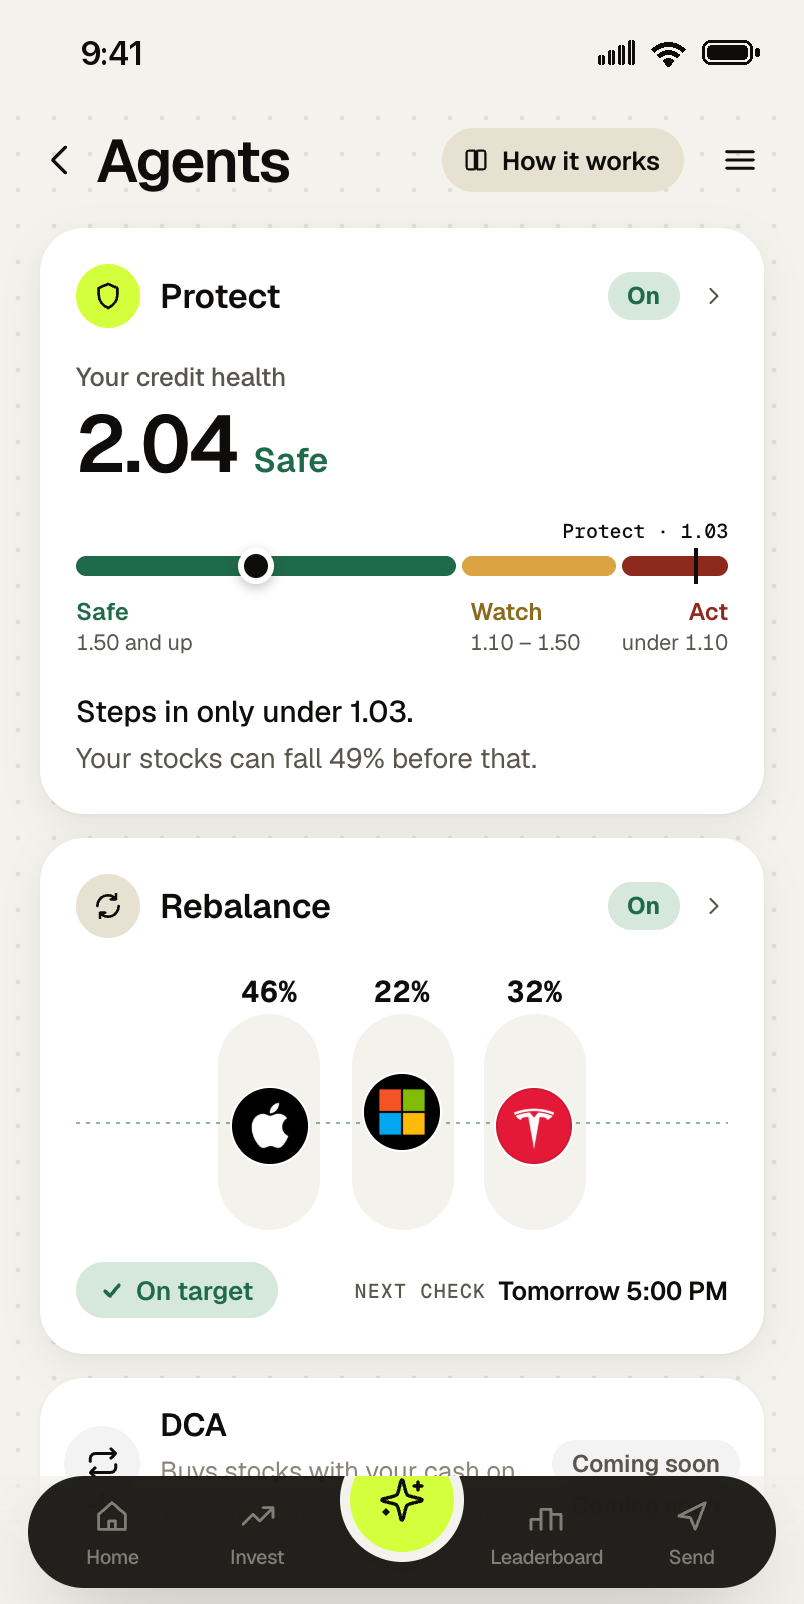
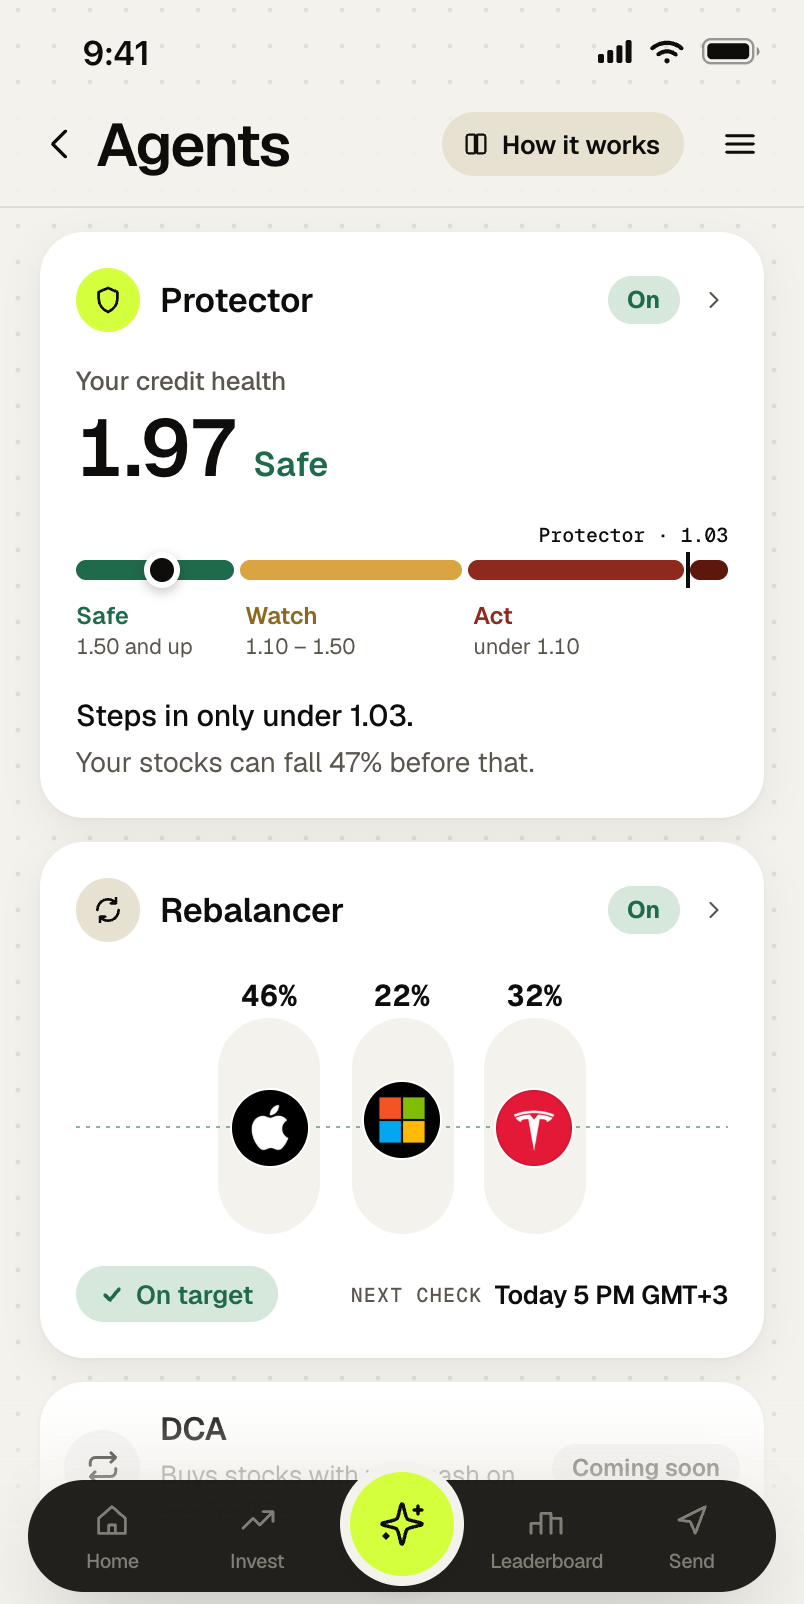
Hero demo: Light / Dark toggle for the demo screen
A small Light / Dark switch under the hero phone swaps the demo's 12 shots
for their dark twins in shots/dark/ (same file names); the page stays light.
Real buttons with aria-pressed, keyboard-operable, landing's mono pill style.

All 12 hero shots retaken from today's app (main 00fac66) on the rehearsal
fork, light and dark at the same moment so the numbers match. The light set
replaces the Oct 20 shots. Tap zones re-measured on the new Home; one set
fits both themes.

diff --git a/index.html b/index.html
@@ -622,26 +622,36 @@
   /* feature cards on phones and tablets: a compact phone frame (shorter than a real phone), sheets anchored to the bottom */
   @media (max-width:880px){
     .slide .frame{width:min(100%,256px);height:auto;aspect-ratio:804/1380;margin:0 auto 18px;border-radius:22px}
-    .tz-qa{top:33%!important;height:10%!important}
+    .tz-qa{top:33.6%!important;height:9.4%!important}
   }
   @media (min-width:600px) and (max-width:880px){
     .slide{flex-basis:46%}
     .slide .frame{width:min(100%,280px)}
   }
-  /* hero demo: more tap zones, positioned on the status-bar home shot at every width */
-  .tz-credit{left:53.5%;width:43%;top:12.5%;height:11.8%}
-  .tz-cash{left:5%;width:43.8%;top:44.9%;height:13.7%}
-  .tz-apple{left:5%;width:27.6%;top:64.8%;height:21.6%}
-  .tz-invest{left:24%;width:16%;top:92%;height:6.8%}
-  .tz-agents{left:42.5%;width:15%;top:90.6%;height:8.2%}
-  .tz-board{left:59.5%;width:17%;top:92%;height:6.8%}
-  .tz-send{left:78%;width:16%;top:92%;height:6.8%}
+  /* hero demo: more tap zones, positioned on the status-bar home shot at every width (light and dark shots alike) */
+  .tz-credit{left:53.5%;width:43%;top:13.5%;height:13.5%}
+  .tz-cash{left:5%;width:44%;top:44.4%;height:14.2%}
+  .tz-apple{left:5%;width:27.6%;top:63.9%;height:21.4%}
+  .tz-invest{left:21.2%;width:19.8%;top:92.3%;height:7.2%}
+  .tz-agents{left:42%;width:16%;top:90.6%;height:8.9%}
+  .tz-board{left:59%;width:19.8%;top:92.3%;height:7.2%}
+  .tz-send{left:78.8%;width:19%;top:92.3%;height:7.2%}
   .tapzone{border-radius:14px;transition:background .2s ease}
   @media (hover:hover){.tapzone:hover{background:rgba(212,255,60,.16)}}
   .tapzone:focus-visible{outline:2px solid #9db32b;outline-offset:2px}
   .ph-page{position:absolute;inset:0;z-index:8;opacity:0;pointer-events:none;transition:opacity .3s ease;background:var(--bg-app);cursor:pointer}
   .ph-page.on{opacity:1;pointer-events:auto}
   .ph-page img{width:100%;height:100%;object-fit:cover;object-position:top;display:block}
+  /* hero demo: Light / Dark switches the demo screen only (shots/dark/ holds the dark shots); the page stays light */
+  .screen.is-dark,.screen.is-dark .ph-page{background:var(--bg-dark)}
+  .demo-theme{position:absolute;left:50%;bottom:-46px;transform:translateX(-50%);z-index:3;display:flex;gap:2px;padding:3px;border-radius:999px;background:rgba(255,255,255,.72);border:1px solid var(--line-strong);box-shadow:0 8px 18px -12px rgba(14,13,11,.35)}
+  .demo-theme button{height:24px;padding:0 11px;border:0;border-radius:999px;background:none;color:var(--ink-mute);font-family:var(--mono);font-size:9.5px;font-weight:700;letter-spacing:.14em;text-transform:uppercase;display:inline-flex;align-items:center;gap:6px;cursor:pointer;transition:background .2s ease,color .2s ease}
+  .demo-theme button svg{width:11px;height:11px;flex:none}
+  .demo-theme button[aria-pressed="true"]{background:var(--ink);color:var(--ink-on-dark)}
+  @media (hover:hover){.demo-theme button[aria-pressed="false"]:hover{color:var(--ink)}}
+  .demo-theme button:focus-visible{outline:2px solid #9db32b;outline-offset:2px}
+  .stage-hint{bottom:-76px}
+  @media (max-width:880px){.hero .stage{margin-bottom:86px}}
   footer .legal{flex:0 0 100%;margin-top:14px;text-transform:none;letter-spacing:.02em;line-height:1.6;font-size:10.5px}
   /* ── agents (dark band, NYM's .soon treatment) ── */
   .agents{background:var(--bg-dark);color:var(--ink-on-dark);position:relative;overflow:hidden;scroll-margin-top:24px}
@@ -750,10 +760,10 @@
       <div class="phone">
         <div class="screen" id="hero-screen">
           <img class="home-shot" src="shots/m/home-hero.png" alt="GreedyGoo home" />
-          <button class="ph-act tapzone tz-qa" data-sheet="topup" type="button" style="left:5%;top:33%;width:21%;height:10%" aria-label="Top up"></button>
-          <button class="ph-act tapzone tz-qa" data-sheet="trade" type="button" style="left:28%;top:33%;width:21%;height:10%" aria-label="Trade"></button>
-          <button class="ph-act tapzone tz-qa" data-sheet="creditbuy" type="button" style="left:51%;top:33%;width:21%;height:10%" aria-label="Credit Buy"></button>
-          <button class="ph-act tapzone tz-qa" data-sheet="repay" type="button" style="left:74%;top:33%;width:21%;height:10%" aria-label="Repay"></button>
+          <button class="ph-act tapzone tz-qa" data-sheet="topup" type="button" style="left:5%;top:33.6%;width:21%;height:9.4%" aria-label="Top up"></button>
+          <button class="ph-act tapzone tz-qa" data-sheet="trade" type="button" style="left:28%;top:33.6%;width:21%;height:9.4%" aria-label="Trade"></button>
+          <button class="ph-act tapzone tz-qa" data-sheet="creditbuy" type="button" style="left:51%;top:33.6%;width:21%;height:9.4%" aria-label="Credit Buy"></button>
+          <button class="ph-act tapzone tz-qa" data-sheet="repay" type="button" style="left:74%;top:33.6%;width:21%;height:9.4%" aria-label="Repay"></button>
 
           <button class="ph-act tapzone tz-credit" data-sheet="credit" type="button" aria-label="My credit"></button>
           <button class="ph-act tapzone tz-cash" data-sheet="cash" type="button" aria-label="Cash"></button>
@@ -776,6 +786,10 @@
           <div class="ph-page" id="page-board"><img src="shots/m/page-board.png" alt="" loading="lazy" /></div>
           <div class="ph-page" id="page-send"><img src="shots/m/page-send.png" alt="" loading="lazy" /></div>
         </div>
+      </div>
+      <div class="demo-theme" role="group" aria-label="Demo screen theme">
+        <button type="button" data-theme="light" aria-pressed="true"><svg viewBox="0 0 12 12" fill="none" stroke="currentColor" stroke-width="1.4" stroke-linecap="round" aria-hidden="true"><circle cx="6" cy="6" r="2.3"/><path d="M6 .8v1.1M6 10.1v1.1M.8 6h1.1M10.1 6h1.1M2.3 2.3l.8.8M8.9 8.9l.8.8M2.3 9.7l.8-.8M8.9 3.1l.8-.8"/></svg>Light</button>
+        <button type="button" data-theme="dark" aria-pressed="false"><svg viewBox="0 0 12 12" fill="currentColor" aria-hidden="true"><path d="M10.6 7.6A4.9 4.9 0 0 1 4.4 1.4a4.9 4.9 0 1 0 6.2 6.2z"/></svg>Dark</button>
       </div>
       <div class="stage-hint">◉ TAP THE BUTTONS, CARDS AND TABS ON THE SCREEN</div>
     </div>
@@ -1459,6 +1473,37 @@
     };
     document.querySelectorAll(".tapzone[data-page]").forEach((b) => b.addEventListener("click", () => show(b.dataset.page)));
     pages.forEach((p) => p.addEventListener("click", () => show(null)));
+  })();
+</script>
+
+<script>
+  // Hero demo: Light / Dark swaps every shot on the demo screen for its twin in shots/dark/ (same file name)
+  (() => {
+    const scr = document.getElementById("hero-screen");
+    const btns = [...document.querySelectorAll(".demo-theme button")];
+    if (!scr || !btns.length) return;
+    const imgs = [...scr.querySelectorAll("img")];
+    imgs.forEach((i) => (i.dataset.light = i.getAttribute("src")));
+    const dark = (src) => "shots/dark/" + src.split("/").pop();
+    const home = scr.querySelector(".home-shot");
+    let want = false;
+    // The dark Home loads before the swap, so the screen never flashes empty
+    const warm = () => {
+      const im = new Image();
+      im.src = dark(home.dataset.light);
+      return im.decode().catch(() => {});
+    };
+    const set = async (on) => {
+      want = on;
+      btns.forEach((b) => b.setAttribute("aria-pressed", String((b.dataset.theme === "dark") === on)));
+      if (on) await warm();
+      if (want !== on) return;
+      imgs.forEach((i) => (i.src = on ? dark(i.dataset.light) : i.dataset.light));
+      scr.classList.toggle("is-dark", on);
+    };
+    btns.forEach((b) => b.addEventListener("click", () => set(b.dataset.theme === "dark")));
+    const darkBtn = btns.find((b) => b.dataset.theme === "dark");
+    ["pointerenter", "focus"].forEach((ev) => darkBtn.addEventListener(ev, warm, { once: true }));
   })();
 </script>
 
